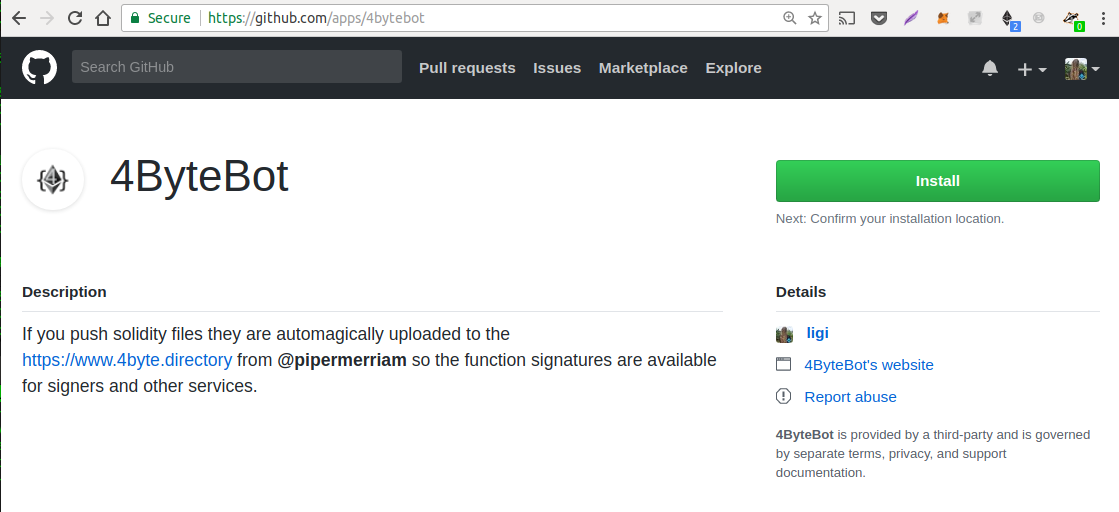
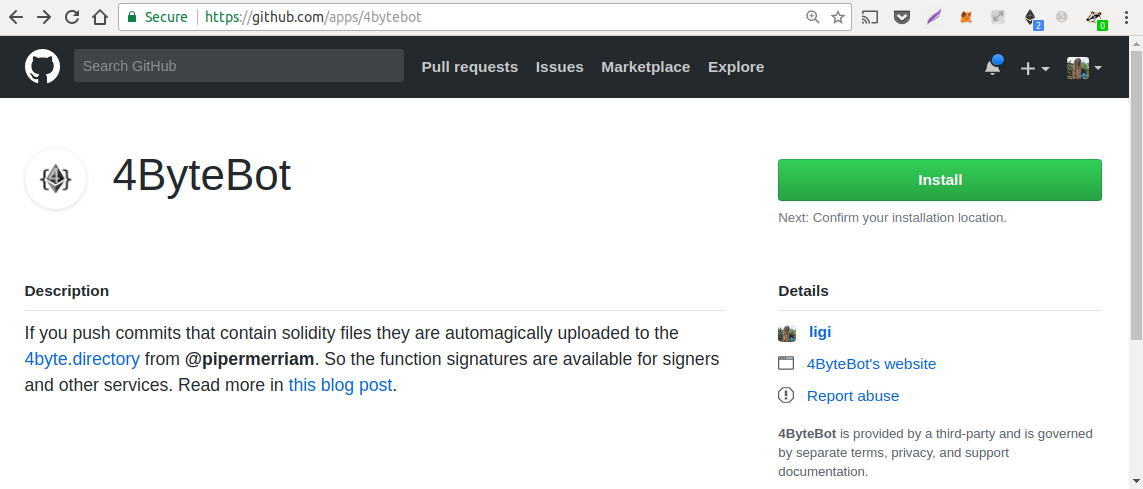
Improve wording and screenshot

diff --git a/_posts/2018-02-19-4bytebot.md b/_posts/2018-02-19-4bytebot.md
@@ -5,7 +5,7 @@ title: 4ByteBot
 ---
 
 WallETH will soon use data from the [4byte.directory](https://www.4byte.directory). So it should be as up to date as possible. And inspired by [this redditor](https://www.reddit.com/r/ethdev/comments/7ym6zt/please_setup_a_webhook_in_your_smart_contract/duhouy6) I lowered the barrier to entry when providing signatures to this database. Now you just have to install a github app (with minimal and read only permissions).
-You now only need to browse to [github.com/apps/4bytebot](https://github.com/apps/4bytebot) - then you will see this screen:
+You only need to browse to [github.com/apps/4bytebot](https://github.com/apps/4bytebot) - then you will see this screen:
 ![](/assets/img/news/screenshot_4bytebot_install.png)
 
 After you click install you can select the organisation or account where the bot should be installed:
